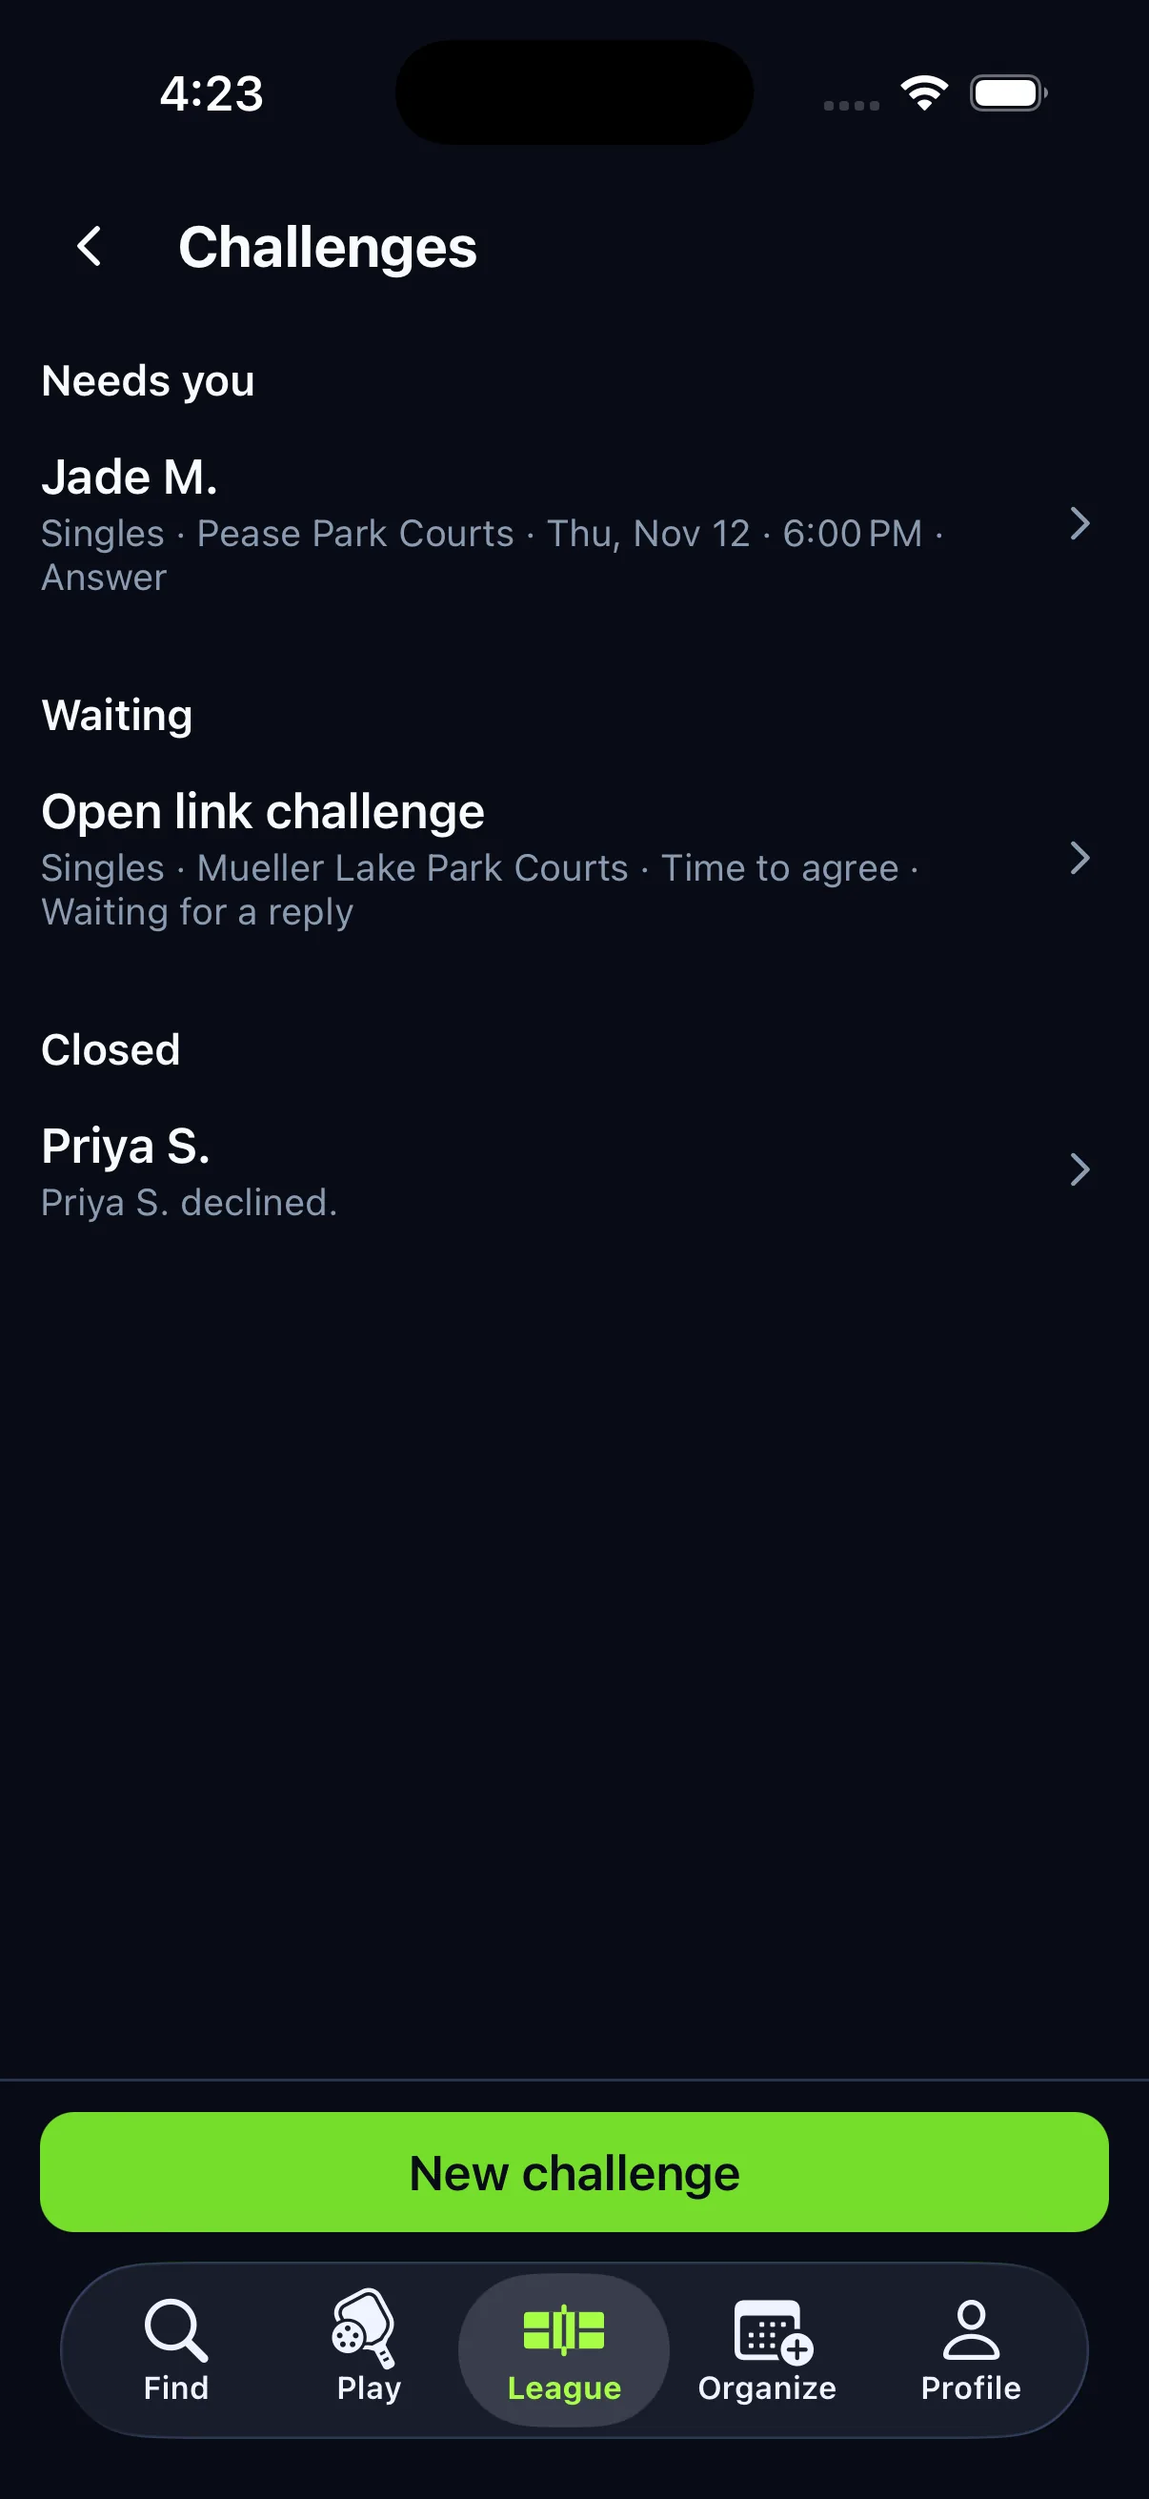
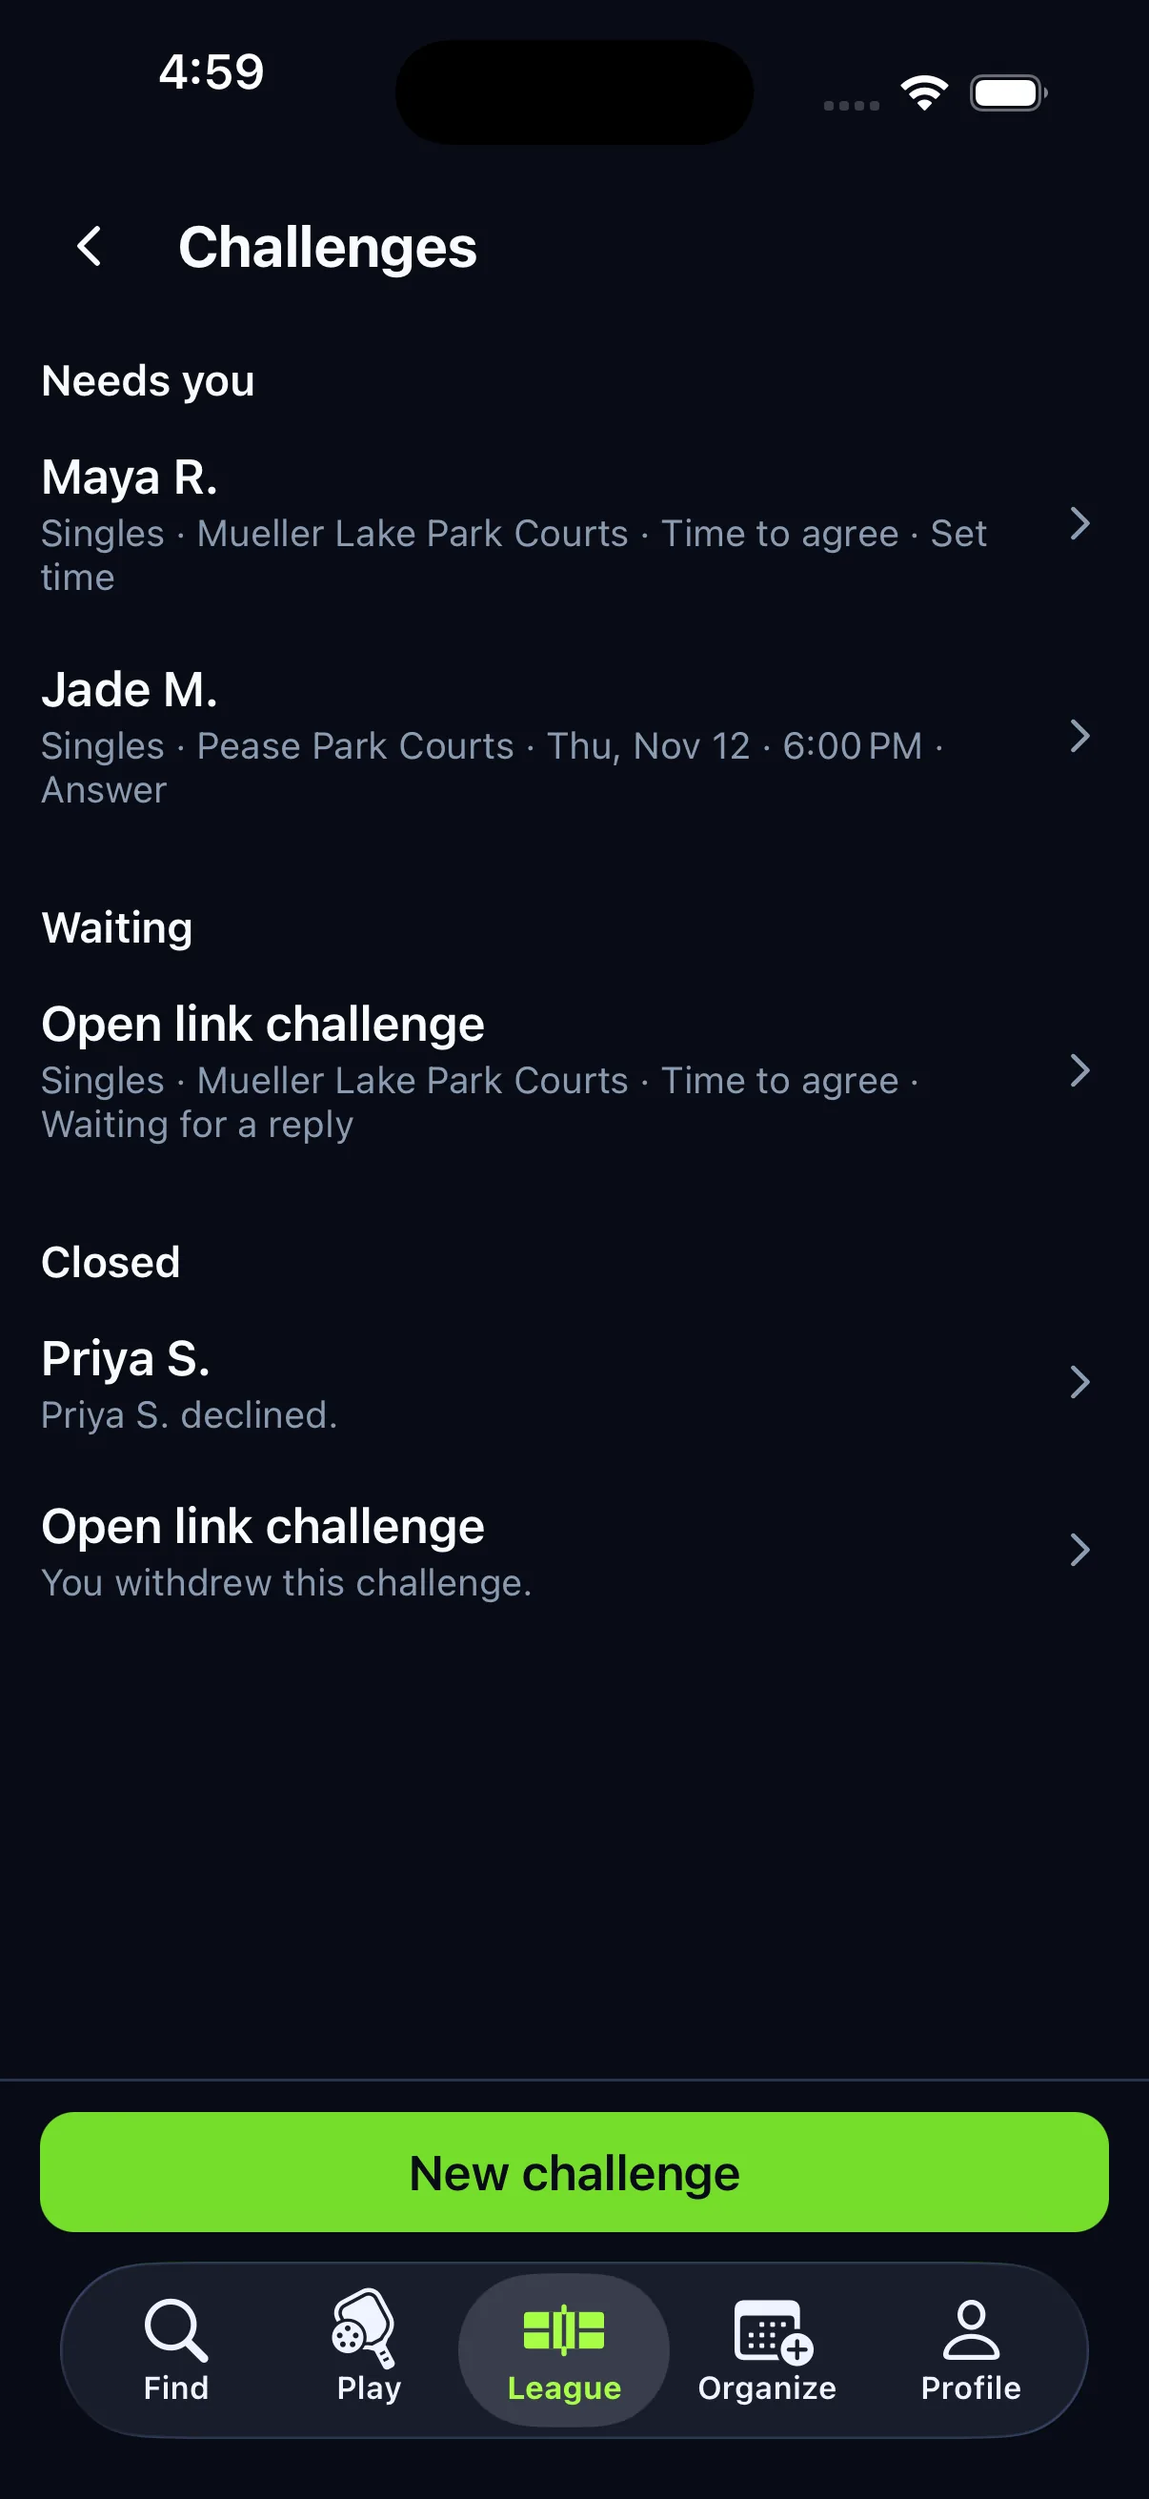
Retake challenge, following and venue board screens after the design pass
Who this is for: the owner and product reviewers using the tour to judge
the new League challenge, following and growth features.

Why: the first capture of these chapters (November 8) showed screens that
broke Circuit's mobile design rules or said the wrong thing, and listed them
as known gaps. Those were fixed in the app (Pickleball-Tournaments local
commit 2d9b7b023), so the tour now shows the fixed screens instead of
describing defects.

What changed: 15 screens retaken, 171 screens in 26 chapters,
IMAGE_VERSION 20261108c.
- Challenges: the menu entry now reads Friends (70); the grouped list keeps
  New challenge pinned full width (70c); the composer's Now, Pick a time and
  Let's find a time stack full width (71-73); the link page has a Challenge
  header with a way back (76); the home row reads "Jade M. challenged you"
  with the plan below (79); Set time has one green button (82); a withdrawn
  challenge says "You withdrew this challenge." (86).
- Following: Follow and Challenge lead Maya's stats page, Your friend says
  "No streak this week · Longest 2 weeks" and badges appear once (87); Block
  sits alone at the end of the page (87b); the Friends tabs carry the title
  Friends (88-90).
- Growth: a caught-up player on a thin venue board reads "You're one of
  them." instead of being told twice to play a match (92).

Example: before, screen 86 told Casey "Casey J. withdrew this challenge."
about her own challenge; now it says "You withdrew this challenge."
[…]

diff --git a/index.html b/index.html
@@ -170,7 +170,7 @@ dialog#lb[open] { display: grid; grid-template-rows: auto minmax(0, 1fr) auto; }
 </dialog>
 
 <script>
-const IMAGE_VERSION = '20261108a';
+const IMAGE_VERSION = '20261108c';
 const CHAPTERS = [
   { id: 'join', title: 'Join the League', who: 'What joining takes, then profile, how you play, venues and times, and the release and terms.', person: 'Blake', shots: [
     ['03b-landing', 'Before you join', 'The League tab says joining is free on any day, skipping a week costs nothing, and confirmed games can go to DUPR. It names what joining takes: a free DUPR account and about five minutes.'],
@@ -325,29 +325,29 @@ const CHAPTERS = [
     ['59c-scanned-cancelled', 'If the host cancels', 'Priya cancelled the match plan, so Hannah sees Not confirmed and is told to ask the host to scan her again.'],
   ]},
   { id: 'challenges', title: 'Challenge a friend', who: 'Pick who, where and when instead of waiting for an offer. Once everyone accepts and there is a time, it is an ordinary League match with its own chat.', person: 'Casey, Sofia, then Maya', shots: [
-    ['70-menu', 'Challenges in the menu', 'The League header’s menu holds My QR code, Challenges, Friends you’ve brought, League settings and League rules.'],
+    ['70-menu', 'Challenges in the menu', 'The League header’s menu holds My QR code, Challenges, Friends, League settings and League rules.'],
     ['70b-challenges-empty', 'No challenges yet', 'Casey hasn’t sent or received one. The page says who she can challenge and what happens once everyone accepts; New challenge stays pinned above the tab bar.'],
-    ['71-composer-link', 'A link anyone can take', 'Casey hasn’t followed anyone yet, so the challenge starts as a Link: anyone with it can take it. She picks Singles and a saved venue, Mueller Lake Park Courts.'],
-    ['72-composer-not-listed', 'A place that isn’t a League venue', 'Not listed lets Casey name her own spot, Casey’s driveway in Austin, TX. The match counts for ratings and records but not for a venue or city board, and only the players in the challenge see the place name.'],
-    ['73-composer-ready', 'Time, DUPR and a note', 'Pick a time sets Saturday, Nov 14 at 10 AM. Now and Let’s find a time are the other choices. It goes to DUPR, and the note says she has balls and water.'],
+    ['71-composer-link', 'A link anyone can take', 'With no player picked, the challenge starts as a Link: anyone with it can take it. Casey picks Singles and a saved venue, Mueller Lake Park Courts. The time choices stack full width further down.'],
+    ['72-composer-not-listed', 'A place that isn’t a League venue', 'Not listed lets Casey name her own spot, Casey’s driveway in Austin, TX. The match counts for ratings and records but not for a venue or city board, and only the players in the challenge see the place name. Now, Pick a time and Let’s find a time each take a full row.'],
+    ['73-composer-ready', 'Time, DUPR and a note', 'Pick a time sets Saturday, Nov 14 at 10 AM. It goes to DUPR, and the note says she has balls and water.'],
     ['74-share-link', 'Share the link', 'Share challenge link creates the challenge and opens the share sheet. The message names Casey, Singles, “a spot they picked” and the time; the private place name stays out of it.'],
     ['75-challenge-sent', 'Waiting for a taker', 'Casey has accepted her own challenge; the other seat reads Anyone with the link until someone takes it. It must be answered by the picked time. Share link sends it again.'],
-    ['76-link-open', 'Opening the link', 'Sofia opens Casey’s link: Singles at a spot they picked, Saturday 10 AM Central, goes to DUPR, a close match for her level. One tap accepts.'],
+    ['76-link-open', 'Opening the link', 'Sofia opens a link from Casey: Singles at a spot they picked, Sunday 10 AM Central, goes to DUPR, a close match for her level. The page has its own Challenge header with a way back, and one tap accepts.'],
     ['77-challenge-set', 'Accepted', 'Sofia took the seat, so both players show Accepted, the place name and note appear, and View match opens the booked match.'],
     ['78-challenge-match', 'An ordinary League match', 'Saturday 10 AM at Casey’s driveway, confirmed, with check-in and Match chat like any League match. A match at a private place can be cancelled any time before the start.'],
-    ['79-home-challenge', 'A challenge in Needs you', 'Maya challenges Casey back. Casey’s League home lists it under Needs you with the format, venue, “Time to agree” and an answer-by time; the Sofia match is under Your matches.'],
+    ['79-home-challenge', 'A challenge in Needs you', 'Casey’s League home lists Jade’s challenge under Needs you: “Jade M. challenged you”, then the plan (Singles, Pease Park Courts, Thursday 6 PM) and the answer-by time.'],
     ['80-challenge-received', 'Answer a challenge', 'Maya’s note says “Rematch? I owe you one.” Casey is a slight favorite, the match goes to DUPR, and she can Accept or Decline.'],
     ['81-challenge-accepted', 'Agree on a time', 'Both have accepted a Let’s find a time challenge, so it needs a time by Sun, Nov 15. Chat is already open for agreeing one.'],
-    ['82-challenge-set-time', 'Set a time', 'Casey picks Thursday, Nov 12 at 6 PM and saves it.'],
+    ['82-challenge-set-time', 'Set a time', 'Casey picks Thursday, Nov 12 at 6 PM. While the time panel is open, Save time is the screen’s one green button.'],
     ['83-challenge-booked', 'Booked', 'With a time set, the challenge becomes a confirmed match at Mueller Lake Park Courts, with Add to calendar and Match chat.'],
-    ['70c-challenges-list', 'The Challenges list', 'Open challenges are grouped: Jade’s to answer under Needs you, Casey’s open link under Waiting, and Priya’s decline under Closed for 7 days. Booked challenges leave the list for Your matches.'],
+    ['70c-challenges-list', 'The Challenges list', 'Open challenges are grouped: Maya’s (needs a time) and Jade’s (to answer) under Needs you, Casey’s open link under Waiting, and Priya’s decline and Casey’s withdrawn link under Closed for 7 days. New challenge stays pinned at the bottom; booked challenges leave the list for Your matches.'],
     ['84-withdraw-menu', 'Withdraw a challenge', 'Nobody has taken Casey’s second link, so the options menu offers Withdraw challenge.'],
     ['85-withdraw-confirm', 'Confirm withdrawal', 'Everyone challenged is told it is off, and it cannot be undone.'],
-    ['86-withdrawn', 'Withdrawn', 'The challenge is closed and says Casey J. withdrew it.'],
+    ['86-withdrawn', 'Withdrawn', 'The challenge is closed and tells Casey “You withdrew this challenge.”'],
   ]},
   { id: 'following', title: 'Following players', who: 'Follow people you like playing. Follows are private to the follower, and a followed player you have played can be challenged in one tap.', person: 'Casey', shots: [
-    ['87-following-stats', 'Follow from a stats page', 'Casey followed Maya from Maya’s League stats. The buttons now read Following and Challenge; before following, a player with no head-to-head shows Share challenge link instead.'],
-    ['87b-following-stats-top', 'Your friend', 'Once followed, Maya’s stats add a Your friend block: her weekly streak, badges including two venue Founder badges, and her home venue.'],
+    ['87-following-stats', 'Follow from a stats page', 'Casey follows Maya from Maya’s League stats. Following and Challenge sit full width under her name; before following, a player with no head-to-head shows Share challenge link instead. Following adds Your friend: “No streak this week · Longest 2 weeks” and her home venue, with her badges listed once under Badges.'],
+    ['87b-following-stats-top', 'Block stays out of the way', 'At the end of Maya’s stats, after her rank history and matches, Block Maya R. sits on its own as a quiet action.'],
     ['96-match-rematch', 'Follow after a match', 'A finished match lists the opponent with Follow, then Rematch, which opens a challenge to the same player, and Share result.'],
     ['88-friends-following', 'Following', 'Friends opens on the players Casey follows, with their best board rank. Maya, whom she has played, can be challenged; Sofia gets a challenge link.'],
     ['89-friends-followers', 'Followers', 'The players who follow Casey. Only Casey sees this list.'],
@@ -357,8 +357,8 @@ const CHAPTERS = [
     ['95-near-you', 'Who plays near you', 'Picking Austin shows the young-city bar, “Be one of the first in Austin” at 13 of 20 players, then players per venue: Mueller Lake Park 8, Pease Park 6, South Austin 4. Location is used once and not saved.'],
     ['93-home-city', 'Your city on the home page', 'Members see the same Austin bar on their League home, with their venue’s player count and how many friends they have brought.'],
     ['91-venue-progress', 'Venue progress', 'Mueller Lake Park Courts: 8 players play here, none looking this week. Each pool has a bar toward its target — Women’s singles 3 of 8 (Casey plays this), Men’s singles 5 of 8 — and 8 of 10 Founder spots are taken. Reaching a target unlocks nothing; it never gates matching.'],
-    ['92-venue-board-needs', 'Venue leaderboard', 'The venue’s own leaderboard needs 5 listed players for standings; Mueller has 2 in Women’s singles, so it says how many are needed and offers Invite friends.'],
-    ['90-friends-brought', 'Friends you’ve brought', 'Diego joined from Casey’s link and played his first match, earning her Brought a friend; 2 more friends who play earn Brought 3 friends. Hannah has joined but not played yet.'],
+    ['92-venue-board-needs', 'Venue leaderboard', 'The venue’s own leaderboard needs 5 listed players for standings. Mueller has 2 in Women’s singles and Casey is one of them, so it says so and offers Invite friends; her pinned row shows her record.'],
+    ['90-friends-brought', 'Brought to the League', 'Diego joined from Casey’s link and played his first match, earning her Brought a friend; 2 more friends who play earn Brought 3 friends. Hannah has joined but not played yet.'],
     ['98-share-result-card', 'Share a result', 'Share result makes this 4:5 image on the phone. It names only the sharer — the score and venue, never the opponent — with the League’s address.'],
   ]},
   { id: 'settings', title: 'Settings, times and venues', who: 'Everything that shapes matchmaking stays editable after setup.', person: 'Casey', shots: [

diff --git a/current-evidence.md b/current-evidence.md
@@ -4,13 +4,13 @@ Updated November 8, 2026 (challenges, following and growth).
 
 ## Challenges, following and growth (November 8)
 
-Three chapters were added (171 screens in 26 chapters, IMAGE_VERSION 20261108a). Nothing earlier was retaken.
+Three chapters were added (171 screens in 26 chapters, IMAGE_VERSION 20261108c). Nothing earlier was retaken. After a design pass, 15 of the new screens were retaken the same day: 70, 70c, 71, 72, 73, 76, 79, 82, 86, 87, 87b, 88, 89, 90 and 92.
 
 - **New chapters.** Challenge a friend (70–86: the menu entry, the empty and grouped Challenges list, a link challenge to a Not listed place, Sofia taking it, Maya's Let's find a time challenge accepted and timed, and withdrawing a link), Following players (87–89, 96: following from stats and after a match, Following and Followers), and Growing your local League (90–95, 98: the not-joined count, See who plays near you, the home city bar, venue pool bars and Founder spots, a venue board that needs more players, Friends you've brought and the result share card).
-- **App.** Pickleball-Tournaments local main `bd10ac775` plus two uncommitted mobile fixes made during capture: creating a challenge now sends the phone's installation header (before, every challenge from the app was refused with "Update the Circuit app, then open this match again."), and the Challenges screen pins a full-width New challenge above the tab bar with a fuller empty state. Nothing is pushed or deployed.
-- **Data.** Isolated local stack with no cron. Sofia took Casey's link, and Maya, Jade and Priya sent or answered challenges, through the API with their own installation ids, because the own-phone rule refuses a second player on the same simulator. Maya, Sofia and Jade were set to follow Casey; Diego and Hannah were marked as invited by Casey (Diego credited) with Casey's Brought a friend badge added directly. Screen 98 is the generated 1080×1350 card centred on a phone-sized dark canvas.
+- **App.** Pickleball-Tournaments `bd10ac775` with the League mobile changes of local commit `2d9b7b023` applied: creating a challenge sends the phone's installation header (before, every challenge from the app was refused with "Update the Circuit app, then open this match again."); New challenge is pinned full width; the link page has a header and back button; the time choices stack full width; Set time leaves one green button; a withdrawn challenge says "You withdrew"; Follow and Challenge lead a stats page with Block at the end; Your friend no longer repeats badges or says "0-week streak"; the screen is titled Friends; and a caught-up player on a thin venue board reads "You're one of them." Nothing is pushed or deployed.
+- **Data.** Isolated local stack with no cron. Sofia took Casey's link, and Maya, Jade and Priya sent or answered challenges, through the API with their own installation ids, because the own-phone rule refuses a second player on the same simulator. Maya, Sofia and Jade were set to follow Casey; Diego and Hannah were marked as invited by Casey (Diego credited) with Casey's Brought a friend badge added directly. Screen 98 is the generated 1080×1350 card centred on a phone-sized dark canvas. On the retaken screens the iOS "◂ Safari" return link, left in the status bar by opening deep links, is painted over in the status bar colour; nothing else in an image was edited. The retaken link page (76) is a second driveway link for Sunday 10 AM, because Casey's Saturday 10 AM is already booked by screens 77–78.
 - **Checks.** Every image was reviewed; Dark appearance, Default text size.
-- **Known gaps.** The link page (76) has no header or back button and leaves out the challenger's note. The withdrawn challenge (86) says "Casey J. withdrew" to Casey herself. Maya's stats (87b) show her badges twice once she is followed, and the streak line reads "0-week streak". The Friends screen keeps the title Friends you've brought on every tab. An opponent Casey has played but not followed gets Share challenge link instead of Challenge until they have played three matches together. The venue board (92) repeats "Play a match to be listed again". Join (03b–11) still says DUPR is required; DUPR became optional on November 7 and those screens were not retaken.
+- **Known gaps.** The link page leaves out the challenger's note by design: someone without a seat sees the plan only. Opened straight after signing in, the link page told Sofia, a member, to join the League until it was reopened. Pick a time lists every half hour from 12 AM, as ruling #128 allows, so the start-time list opens at midnight. An opponent Casey has played but not followed gets Share challenge link instead of Challenge until they have played three matches together. Join (03b–11) still says DUPR is required; DUPR became optional on November 7 and those screens were not retaken.
 
 ## After the League simplification (November 2–3)
 
